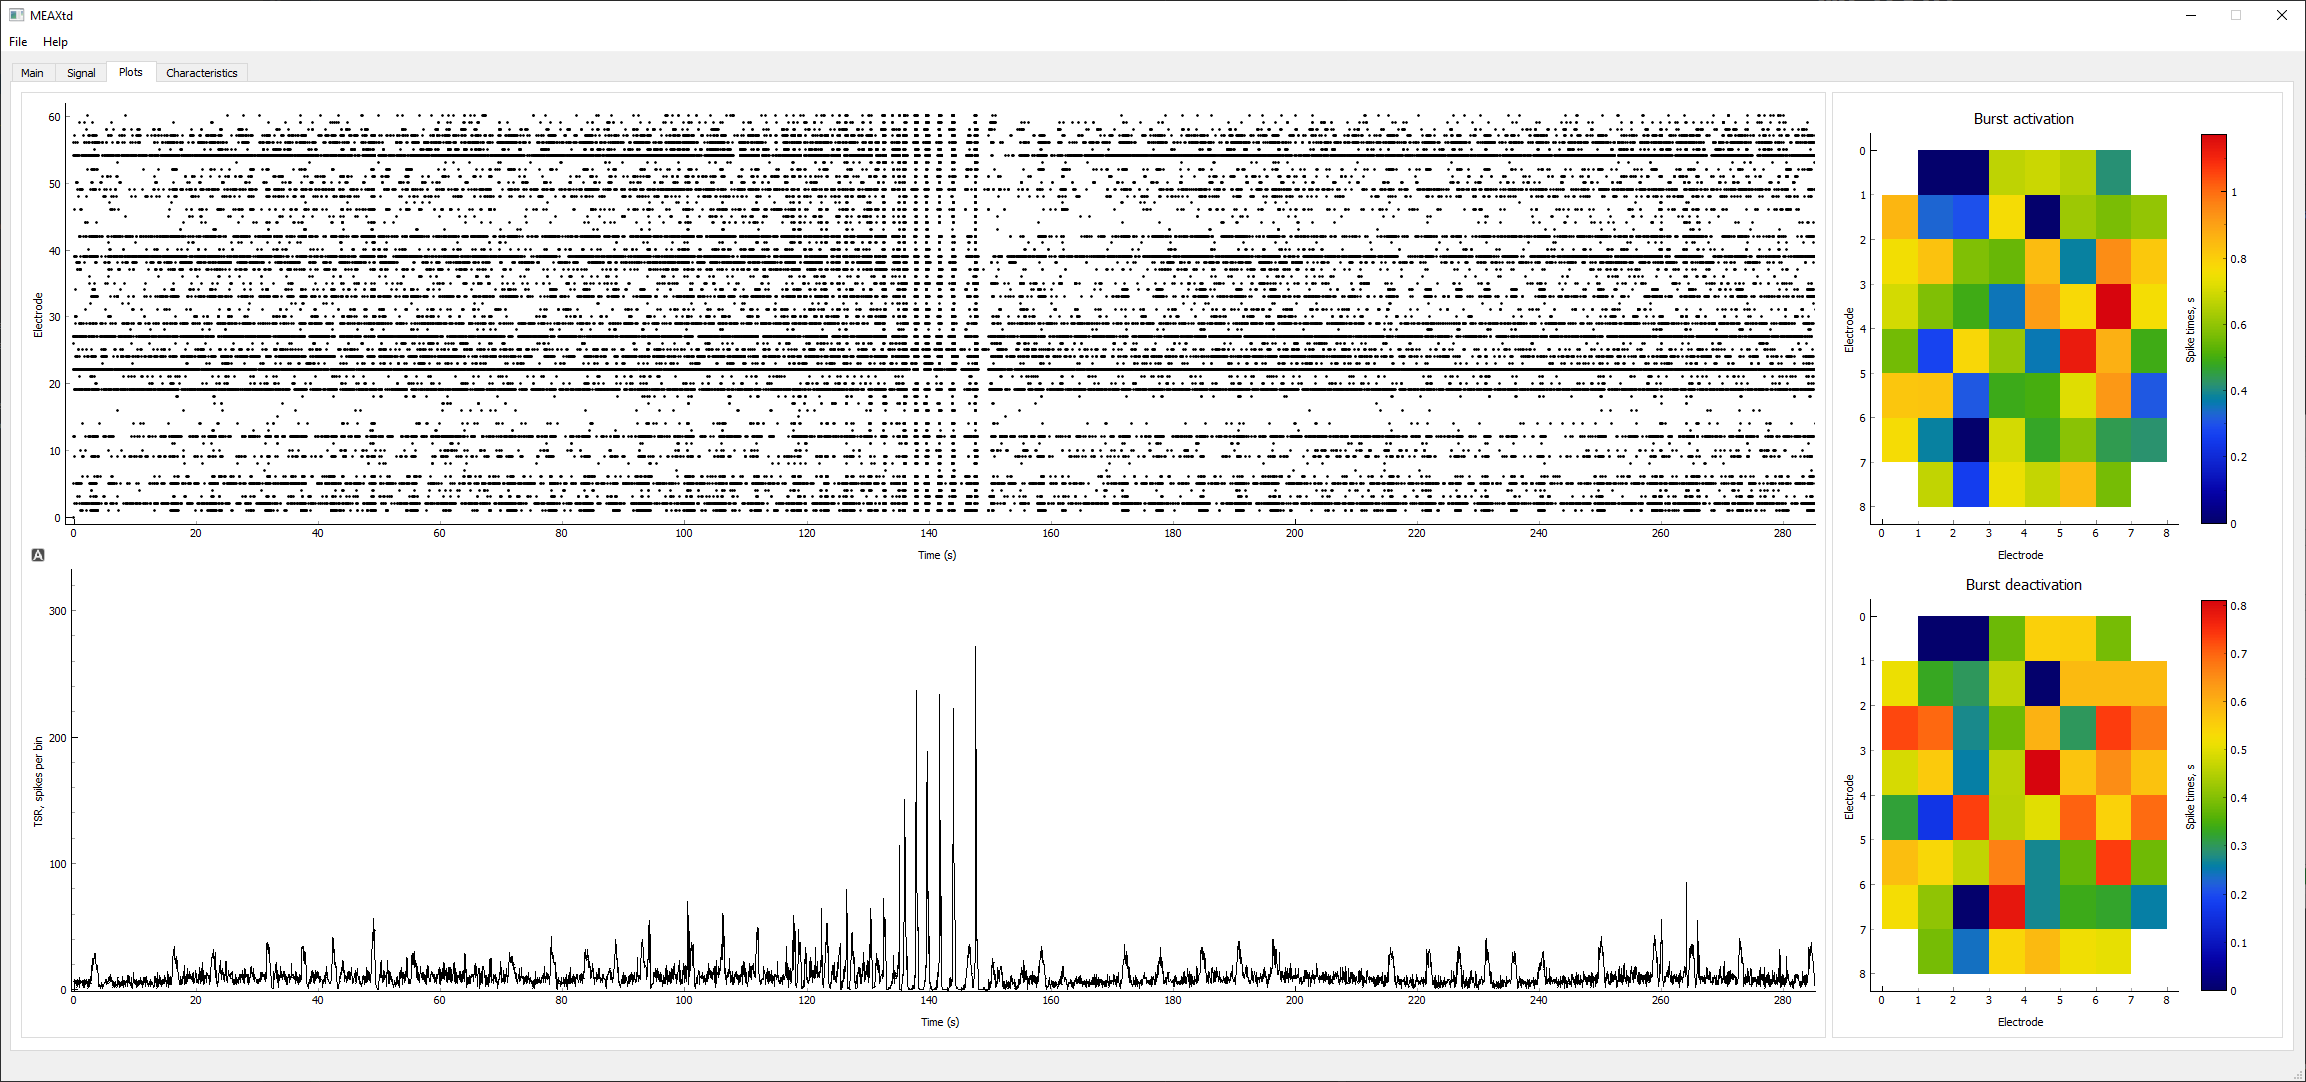
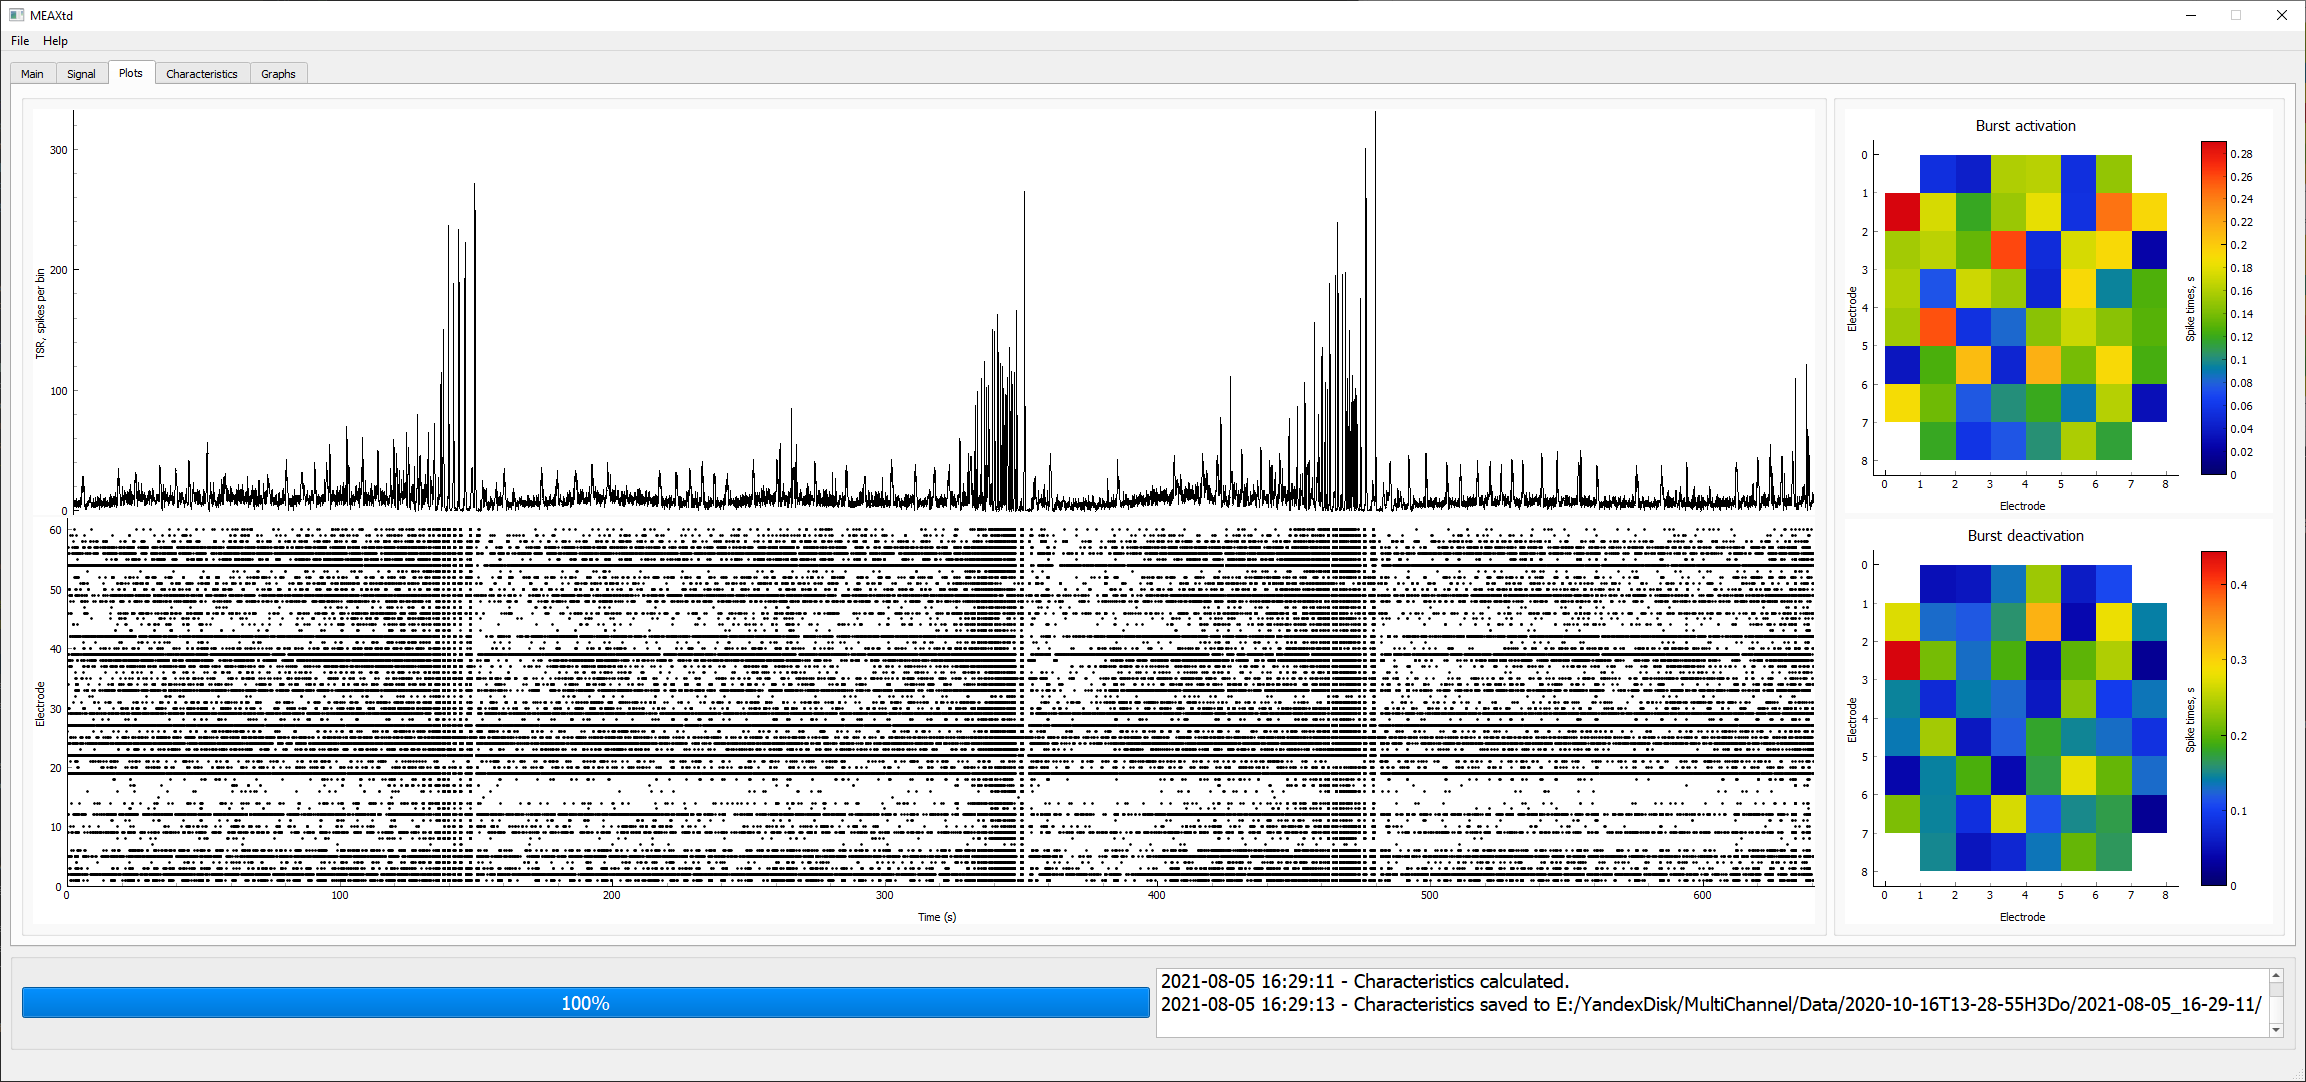
readme update

Changed region(s): [[0.0, 0.0, 1.0, 0.9455], [0.0, 0.0305, 0.1561, 0.0915], [0.9991, 0.976, 1.0, 1.0]]

diff --git a/README.rst b/README.rst
@@ -50,9 +50,17 @@ https://www.multichannelsystems.com/software/multi-channel-datamanager
 
 Задание метода осуществляется в панели "Spike Parameters". По умолчанию программа использует метод поиска медианы сигнала. Величина коэффициента (coeff) также может быть изменена в поле "Coefficient".
 
-Далее программа на каждом канале осуществляет поиск берстлетов (последовательностей спайков) в окне, размер которого контролируется параметром "Window size" в панели "Burst parameters".
+В программе реализовано 2 метода нахождения бёрстов: с помощью поиска берстлетов или по функции TSR (total spiking rate).
 
+Поиск берстлетов (последовательностей спайков) осуществляется в окне, размер которого контролируется параметром "Window size" в панели "Burst parameters".
 Берст регистрируется, если существует пересечение берстлетов на нескольких каналах (количество каналов регулируется параметром "Num channels").
+
+При использовании TSR для поиска бёрстов определяется минимально допустимая длина бёрста ("Window size") и порог согласно формуле
+::
+
+    mean(TSR) + coeff * std(TSR)
+
+Значение коэффициента "Threshold coefficient" можно изменять. В процессе работы программы в нижнем окне выводятся значения mean(TSR), std(TSR) и результирующий порог.
 
 При изменении параметров необходимо заново запускать анализ (Process).
 
@@ -76,7 +84,7 @@ https://www.multichannelsystems.com/software/multi-channel-datamanager
 
 На вкладке Plots отображаются статистические графики, построенные при анализе загруженного файла.
 
-.. image:: images\\plots_1.png
+.. image:: images\\plots.png
 
 В левой верхней части окна отображается зависимость TSR (total spiking rate) от времени - суммарное количество спайков на всех каналах в окне 50 мс.
 
@@ -93,10 +101,31 @@ https://www.multichannelsystems.com/software/multi-channel-datamanager
 
 На вкладке Characteristics отображаются вычисленные характеристики сигнала - глобальные, для каждого канала, для каждого берста, для каждой минуты.
 
-.. image:: images\\characteristics_1.png
+.. image:: images\\characteristics.png
 
 Все вычисленные характеристики также сохраняются в отдельные xlsx файлы. В папке, где находится оригинальный файл, создается отдельная папка с именем файла, в ней - папка с временем проведения анализа.
 В эту же папку сохраняются все графики с вкладки Plots и файл с конфигурацией параметров анализа.
+
+Экран построения графов (вкладка Graphs)
+----------------------------------------------------------
+
+Вкладка Graphs используется для построения графов распространения сигнала внутри бёрстов.
+
+.. image:: images\\graphs.png
+
+На вкладке слева расположена таблица с характеристиками всех бёрстов, для удобства выбора нужного бёрста.
+
+Граф строится следующим образом:
+
+#. Для выбранного бёрста производится поиск delayed synchronous спайков. Для всех пар сигналов, на которых задетектирован бёрст, рассматриваются интервалы размером Delta (количество интервалов регилируется пареметром Num frames). Для каждого интервала вычисляется отношение количества delayed synchronous спайков к количеству спайков на постсинаптическом нейроне.
+#. Среди всех пар сигналов выбирается топ с максимальными коэффициентами (количество регулируется параметром Cutoff top).
+#. Узлы графа -- сигналы, связи -- задержка по времени для delayed synchronous спайков.
+
+В поле "Navigation" производится ввод номера бёрста, для которого требуется построить граф. После того, как бёрст выбран и параметры заданы, необходимо нажать кнопку "Build Graph".
+
+.. image:: images\\graph_example.png
+
+В поле справа отображается построенный граф, в папку с характеристиками сохраняется 3 типа файлов: картинка в формате png, векторная картинка в формате pdf, файл в формате dot для Graphviz.
 
 Обратная связь
 ---------------------
